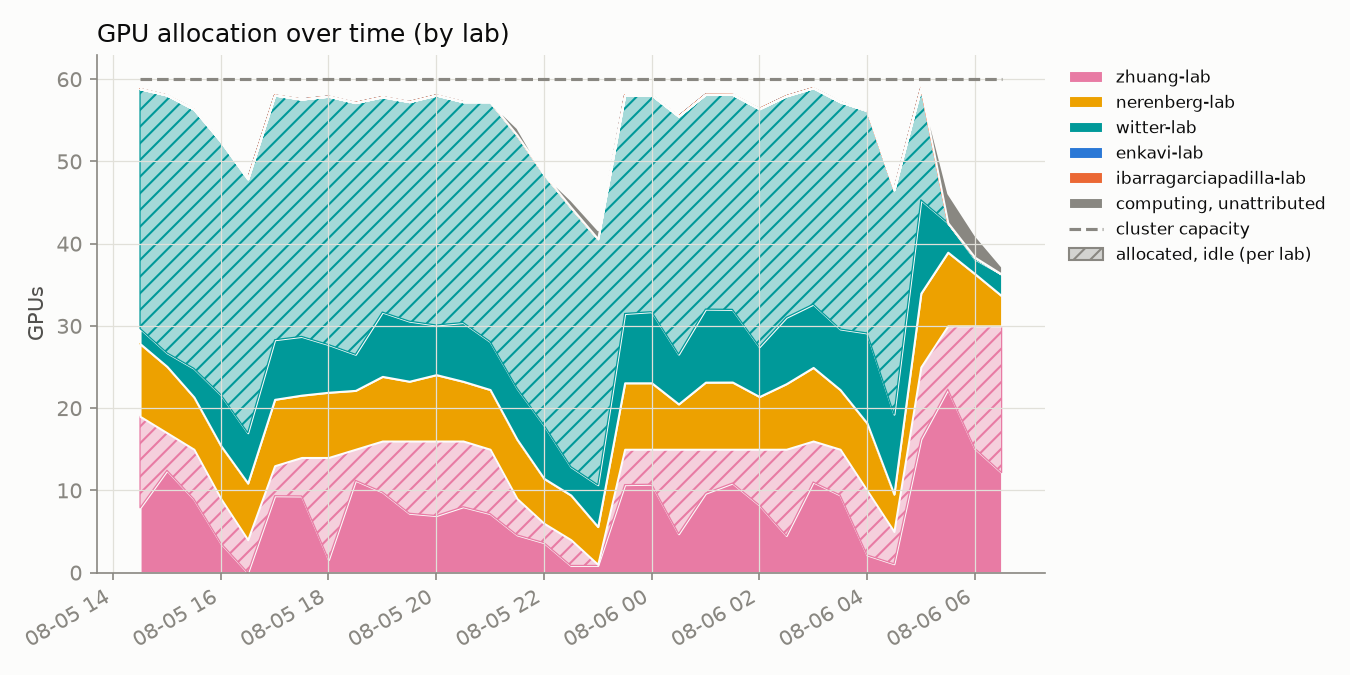
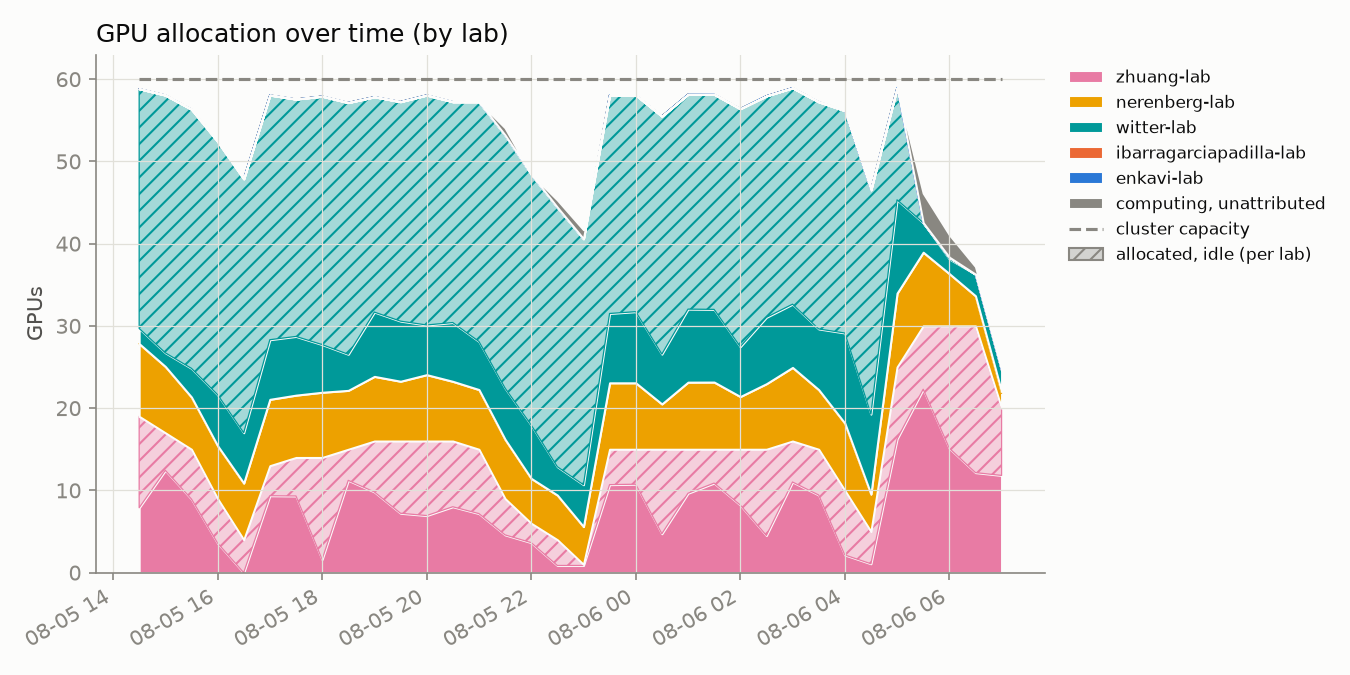
update 2026-08-06T07:00:01-07:00

diff --git a/README.md b/README.md
@@ -2,8 +2,8 @@
 
 Automated GPU/CPU/queue utilization tracker for `hopper.cluster`, updated every 30 minutes by cron. Usernames are anonymized to a stable per-account pseudonym; lab names are real.
 
-Last updated: 2026-08-06T06:31:19-07:00
-Samples: 33 queue snapshots, 33 GPU snapshots
+Last updated: 2026-08-06T07:00:16-07:00
+Samples: 34 queue snapshots, 34 GPU snapshots
 
 ## Resources
 
@@ -16,22 +16,22 @@ Samples: 33 queue snapshots, 33 GPU snapshots
 
 ## Headline
 
-- **81.0%** of the cluster's 60 GPUs allocated, averaged across all samples
-- **37.6%** average `nvidia-smi` utilization *when* a GPU is allocated to a job
-- **81.0%** average cgroup CPU utilization *when* a CPU is allocated to a job
+- **79.8%** of the cluster's 60 GPUs allocated, averaged across all samples
+- **37.9%** average `nvidia-smi` utilization *when* a GPU is allocated to a job
+- **81.1%** average cgroup CPU utilization *when* a CPU is allocated to a job
 
 ## Per lab / per user
 
 <table>
 <tr><th>Lab</th><th>User</th><th align='right'>GPU-hours allocated</th><th align='right'>CPU-hours allocated</th><th align='right'>GPU utilization</th></tr>
 <tr style='background-color:#d8efef'><td>witter-lab</td><td>user-d58f5a15</td><td align='right'>467.5</td><td align='right'>3740.0</td><td align='right'>9%</td></tr>
-<tr style='background-color:#fbebf1'><td>zhuang-lab</td><td>user-0db9ced0</td><td align='right'>242.5</td><td align='right'>242.5</td><td align='right'>47%</td></tr>
-<tr style='background-color:#d8efef'><td>witter-lab</td><td>user-554c620c</td><td align='right'>59.0</td><td align='right'>163.5</td><td align='right'>73%</td></tr>
-<tr style='background-color:#fcf0d8'><td>nerenberg-lab</td><td>user-6bb5f332</td><td align='right'>33.0</td><td align='right'>165.0</td><td align='right'>71%</td></tr>
+<tr style='background-color:#fbebf1'><td>zhuang-lab</td><td>user-0db9ced0</td><td align='right'>252.5</td><td align='right'>252.5</td><td align='right'>47%</td></tr>
+<tr style='background-color:#d8efef'><td>witter-lab</td><td>user-554c620c</td><td align='right'>60.0</td><td align='right'>168.5</td><td align='right'>73%</td></tr>
+<tr style='background-color:#fcf0d8'><td>nerenberg-lab</td><td>user-6bb5f332</td><td align='right'>34.0</td><td align='right'>170.0</td><td align='right'>71%</td></tr>
+<tr style='background-color:#fce8e0'><td>ibarragarciapadilla-lab</td><td>user-3cfc41a3</td><td align='right'>0.0</td><td align='right'>2032.5</td><td align='right'>—</td></tr>
+<tr style='background-color:#fce8e0'><td>ibarragarciapadilla-lab</td><td>user-eec7ffae</td><td align='right'>0.0</td><td align='right'>212.5</td><td align='right'>—</td></tr>
 <tr style='background-color:#dfeaf8'><td>enkavi-lab</td><td>user-c21bdaa4</td><td align='right'>0.0</td><td align='right'>14.0</td><td align='right'>—</td></tr>
-<tr style='background-color:#fce8e0'><td>ibarragarciapadilla-lab</td><td>user-eec7ffae</td><td align='right'>0.0</td><td align='right'>211.0</td><td align='right'>—</td></tr>
 <tr style='background-color:#fcf0d8'><td>nerenberg-lab</td><td>user-b12dc074</td><td align='right'>0.0</td><td align='right'>16.0</td><td align='right'>—</td></tr>
-<tr style='background-color:#fce8e0'><td>ibarragarciapadilla-lab</td><td>user-3cfc41a3</td><td align='right'>0.0</td><td align='right'>1980.0</td><td align='right'>—</td></tr>
 </table>
 
 (Row background is each lab's chart color, lightened, matching the charts above. GitHub strips inline CSS, so this table renders plain on github.com; the tint shows in renderers that keep inline styles, e.g. a local Markdown preview.)
@@ -44,7 +44,7 @@ Samples: 33 queue snapshots, 33 GPU snapshots
 
 Both charts share the same structure: solid color is *utilized* by lab, translucent + hatched (same color) on top of it is that lab's *allocated but idle*, solid gray above that is usage that couldn't be traced to a job or lab, and the dashed line is total cluster capacity - any gap above it is unallocated headroom. CPU utilization comes from cgroup v2 accounting (`cpu.stat`'s `usage_usec`, cumulative CPU time per job) read directly off each node, since `sstat` returns nothing usable for this on this cluster.
 
-Attribution is cross-referenced two ways: `nvidia-smi`'s own process listing (misses containerized/namespaced processes), backfilled from Slurm's GPU-to-job binding record (`scontrol show job -dd`). The scontrol fallback attributed **1240** GPU readings this run that the process-listing path missed.
+Attribution is cross-referenced two ways: `nvidia-smi`'s own process listing (misses containerized/namespaced processes), backfilled from Slurm's GPU-to-job binding record (`scontrol show job -dd`). The scontrol fallback attributed **1258** GPU readings this run that the process-listing path missed.
 
 ## Queue
 
@@ -56,7 +56,7 @@ Only jobs Slurm is actively scoring for scheduling (has a `sprio` priority) coun
 
 ![CPU usage vs GPU usage, decayed](assets/cpu_gpu_usage.png)
 
-Each point is one user at one snapshot (n=205), not averaged over time, to show how a user's position moves rather than collapsing it to a single number. Both axes are usage decayed with Slurm's own ~7-day fairshare half-life (`PriorityDecayHalfLife` on this cluster), not a lifetime total or a per-day average.
+Each point is one user at one snapshot (n=210), not averaged over time, to show how a user's position moves rather than collapsing it to a single number. Both axes are usage decayed with Slurm's own ~7-day fairshare half-life (`PriorityDecayHalfLife` on this cluster), not a lifetime total or a per-day average.
 
 **CPU usage (x-axis) is essentially what earns priority here; GPU usage (y-axis) is what Slurm could weight the same way but doesn't**: `PriorityWeightTRES` is unset, and partition `main` has no `TRESBillingWeights` configured, so fairshare usage accounting bills by CPU count alone - a job holding 4 GPUs and 8 CPUs accrues the same usage debt as an 8-CPU, no-GPU job. The users worth a second look are in the **upper-left**: low decayed CPU usage (high, unpenalized fairshare priority) paired with high decayed GPU usage.
 
